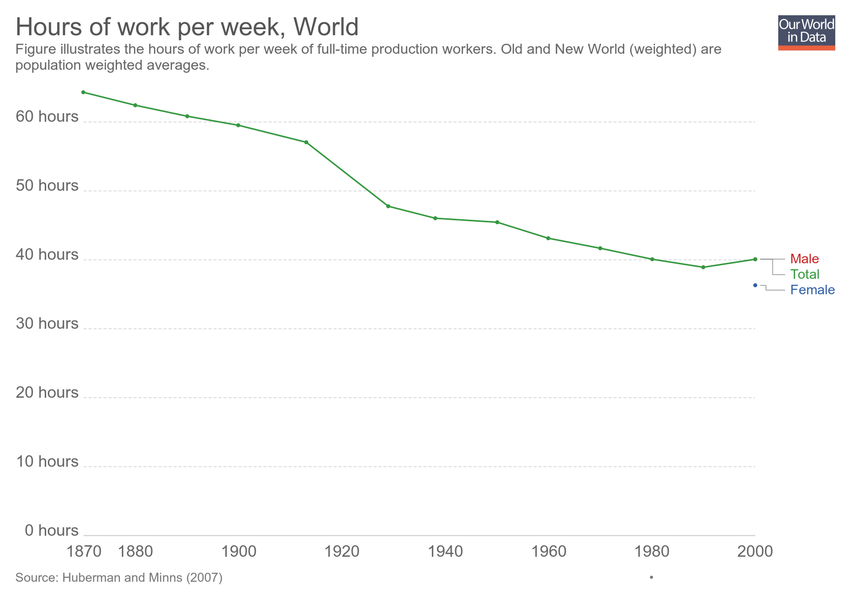
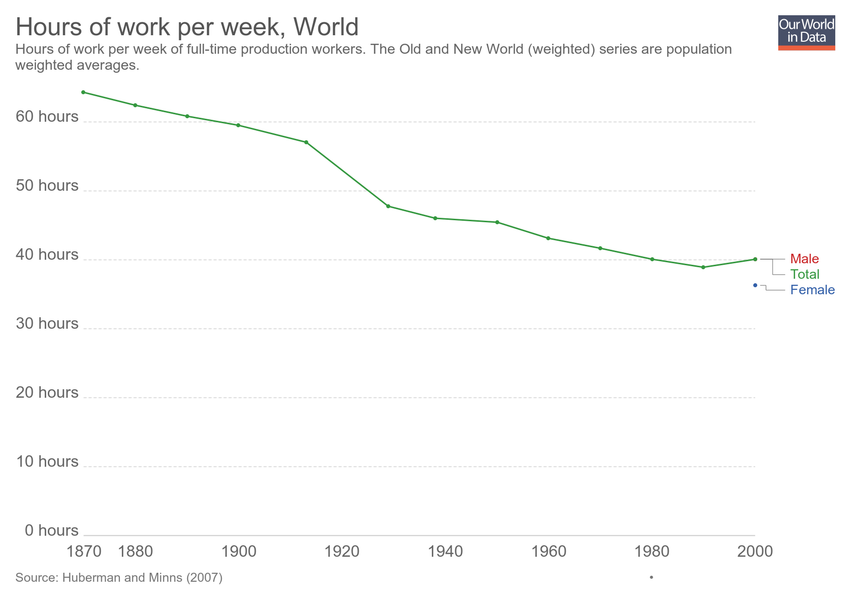
Updating chart hours-of-work-per-week

Changed region(s): [[0.0, 0.06, 0.8565, 0.12]]

diff --git a/grapher/hours-of-work-per-week.html b/grapher/hours-of-work-per-week.html
@@ -1,4 +1,4 @@
-<!doctype html><html><head><meta name="viewport" content="width=device-width, initial-scale=1" /><title>Hours of work per week - Our World in Data</title><meta name="description" content="Figure illustrates the hours of work per week of full-time production workers. Old and New World (weighted) are population weighted averages. " /><link rel="canonical" href="https://ourworldindata.org/grapher/hours-of-work-per-week" /><meta property="fb:app_id" content="1149943818390250" /><meta property="og:url" content="https://ourworldindata.org/grapher/hours-of-work-per-week" /><meta property="og:title" content="Hours of work per week" /><meta property="og:description" content="Figure illustrates the hours of work per week of full-time production workers. Old and New World (weighted) are population weighted averages. " /><meta property="og:image" content="https://ourworldindata.org/grapher/exports/hours-of-work-per-week.png?v=1" /><meta property="og:image:width" content="850" /><meta property="og:image:height" content="600" /><meta property="og:site_name" content="Our World in Data" /><meta name="twitter:card" content="summary_large_image" /><meta name="twitter:site" content="@OurWorldInData" /><meta name="twitter:creator" content="@OurWorldInData" /><meta name="twitter:title" content="Hours of work per week" /><meta name="twitter:description" content="Figure illustrates the hours of work per week of full-time production workers. Old and New World (weighted) are population weighted averages. " /><meta name="twitter:image" content="https://ourworldindata.org/grapher/exports/hours-of-work-per-week.png?v=1" /><style>
+<!doctype html><html><head><meta name="viewport" content="width=device-width, initial-scale=1" /><title>Hours of work per week - Our World in Data</title><meta name="description" content="Hours of work per week of full-time production workers. The Old and New World (weighted) series are population weighted averages. " /><link rel="canonical" href="https://ourworldindata.org/grapher/hours-of-work-per-week" /><meta property="fb:app_id" content="1149943818390250" /><meta property="og:url" content="https://ourworldindata.org/grapher/hours-of-work-per-week" /><meta property="og:title" content="Hours of work per week" /><meta property="og:description" content="Hours of work per week of full-time production workers. The Old and New World (weighted) series are population weighted averages. " /><meta property="og:image" content="https://ourworldindata.org/grapher/exports/hours-of-work-per-week.png?v=4" /><meta property="og:image:width" content="850" /><meta property="og:image:height" content="600" /><meta property="og:site_name" content="Our World in Data" /><meta name="twitter:card" content="summary_large_image" /><meta name="twitter:site" content="@OurWorldInData" /><meta name="twitter:creator" content="@OurWorldInData" /><meta name="twitter:title" content="Hours of work per week" /><meta name="twitter:description" content="Hours of work per week of full-time production workers. The Old and New World (weighted) series are population weighted averages. " /><meta name="twitter:image" content="https://ourworldindata.org/grapher/exports/hours-of-work-per-week.png?v=4" /><style>
         html, body {
             height: 100%;
             margin: 0;
@@ -20,8 +20,8 @@
         }
     </style><noscript><style>
                     figure { display: none !important; }
-                </style></noscript><link rel="stylesheet" href="https://ourworldindata.org/grapher/assets/commons.bundle.e61261d2881056c44b1d.css" /><link rel="preload" href="/grapher/data/variables/97555+97554+97553.json?v=1" as="fetch" crossorigin /></head><body class="singleChart"><figure data-grapher-src="/grapher/hours-of-work-per-week"></figure><noscript id="fallback"><img src="/grapher/exports/hours-of-work-per-week.svg" /><p>Interactive visualization requires JavaScript</p></noscript><script src="https://cdn.polyfill.io/v2/polyfill.min.js?features=es6,fetch"></script><script src="https://ourworldindata.org/grapher/assets/commons.bundle.e61261d2881056c44b1d.js"></script><script src="https://ourworldindata.org/grapher/assets/charts.bundle.e61261d2881056c44b1d.js"></script><script>
-        var jsonConfig = {"map":{"projection":"World","targetYear":2000,"variableId":97553,"colorSchemeLabels":[],"colorSchemeValues":[],"customNumericColors":[],"customCategoryColors":{},"customCategoryLabels":{},"customHiddenCategories":{}},"tab":"chart","slug":"hours-of-work-per-week","type":"LineChart","title":"Hours of work per week","xAxis":{"scaleType":"linear"},"yAxis":{"min":0,"scaleType":"linear"},"version":1,"subtitle":"Figure illustrates the hours of work per week of full-time production workers. Old and New World (weighted) are population weighted averages. ","hasMapTab":true,"stackMode":"absolute","dimensions":[{"display":{"name":"Female","unit":"hours of work per week","shortUnit":"hours"},"property":"y","variableId":97555},{"display":{"name":"Male","unit":"hours of work per week"},"property":"y","variableId":97554},{"display":{"name":"Total","unit":"hours of work per week"},"property":"y","variableId":97553}],"isAutoSlug":true,"hasChartTab":true,"isPublished":true,"selectedData":[{"index":0,"entityId":355},{"index":1,"entityId":355},{"index":2,"entityId":355}],"addCountryMode":"change-country","id":2799};
+                </style></noscript><link rel="stylesheet" href="https://ourworldindata.org/grapher/assets/commons.bundle.e61261d2881056c44b1d.css" /><link rel="preload" href="/grapher/data/variables/97555+97554+97553.json?v=4" as="fetch" crossorigin /></head><body class="singleChart"><figure data-grapher-src="/grapher/hours-of-work-per-week"></figure><noscript id="fallback"><img src="/grapher/exports/hours-of-work-per-week.svg" /><p>Interactive visualization requires JavaScript</p></noscript><script src="https://cdn.polyfill.io/v2/polyfill.min.js?features=es6,fetch"></script><script src="https://ourworldindata.org/grapher/assets/commons.bundle.e61261d2881056c44b1d.js"></script><script src="https://ourworldindata.org/grapher/assets/charts.bundle.e61261d2881056c44b1d.js"></script><script>
+        var jsonConfig = {"id":2799,"map":{"projection":"World","targetYear":2000,"variableId":97553,"colorSchemeLabels":[],"colorSchemeValues":[],"customNumericColors":[],"customCategoryColors":{},"customCategoryLabels":{},"customHiddenCategories":{}},"tab":"chart","slug":"hours-of-work-per-week","type":"LineChart","title":"Hours of work per week","xAxis":{"scaleType":"linear"},"yAxis":{"min":0,"scaleType":"linear"},"version":4,"subtitle":"Hours of work per week of full-time production workers. The Old and New World (weighted) series are population weighted averages. ","hasMapTab":true,"stackMode":"absolute","dimensions":[{"display":{"name":"Female","unit":"hours of work per week","shortUnit":"hours"},"property":"y","variableId":97555},{"display":{"name":"Male","unit":"hours of work per week"},"property":"y","variableId":97554},{"display":{"name":"Total","unit":"hours of work per week"},"property":"y","variableId":97553}],"hasChartTab":true,"isPublished":true,"selectedData":[{"index":0,"entityId":355},{"index":1,"entityId":355},{"index":2,"entityId":355}],"addCountryMode":"change-country"};
         var figure = document.getElementsByTagName("figure")[0];
         try {
             window.App = {};
